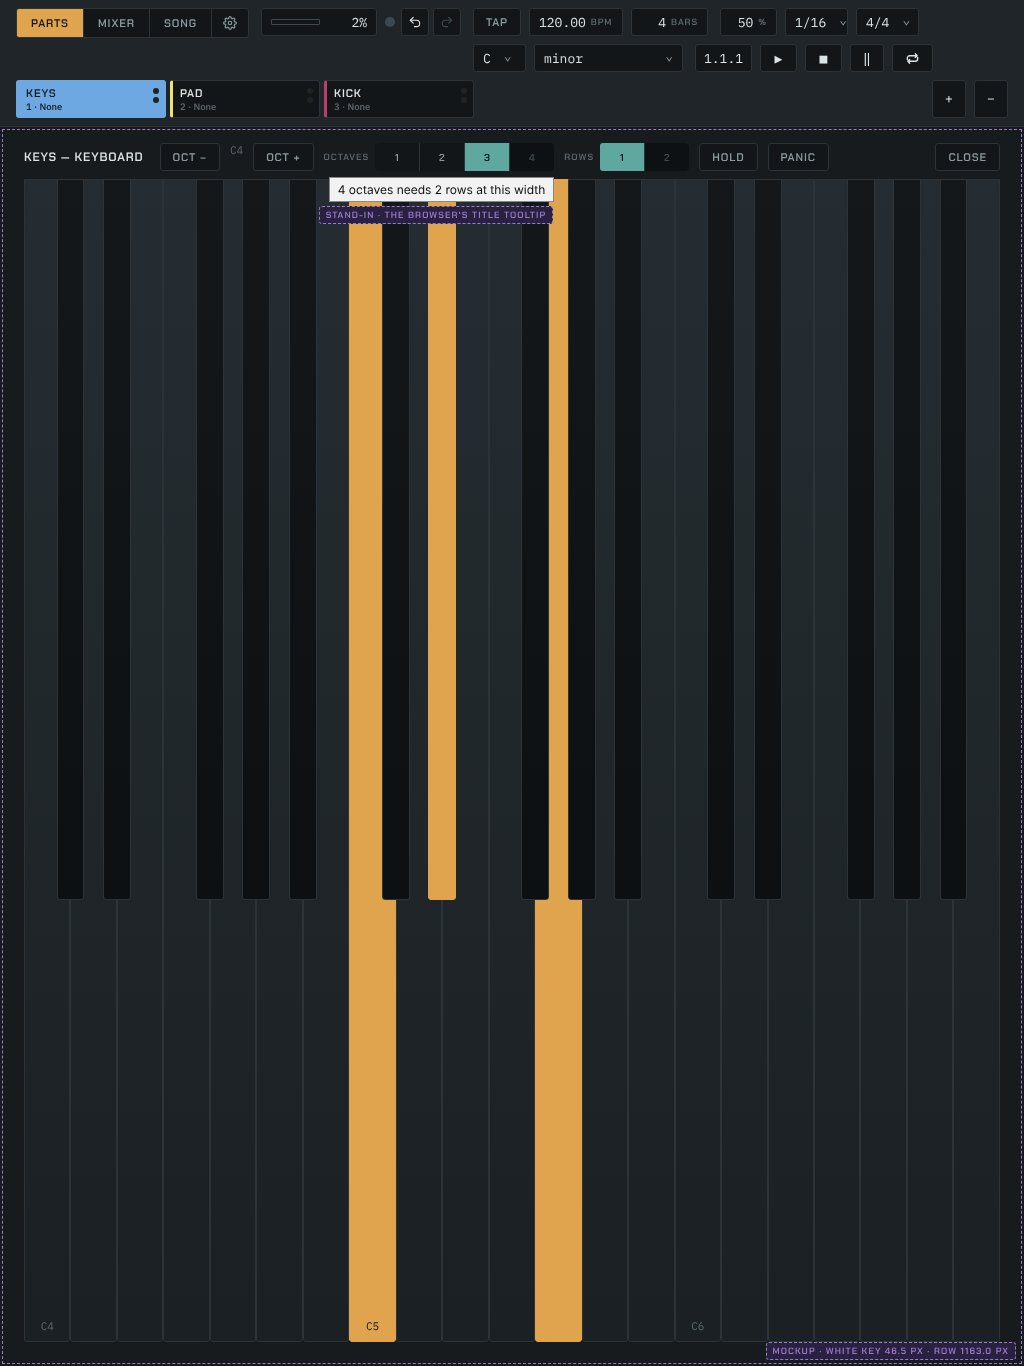
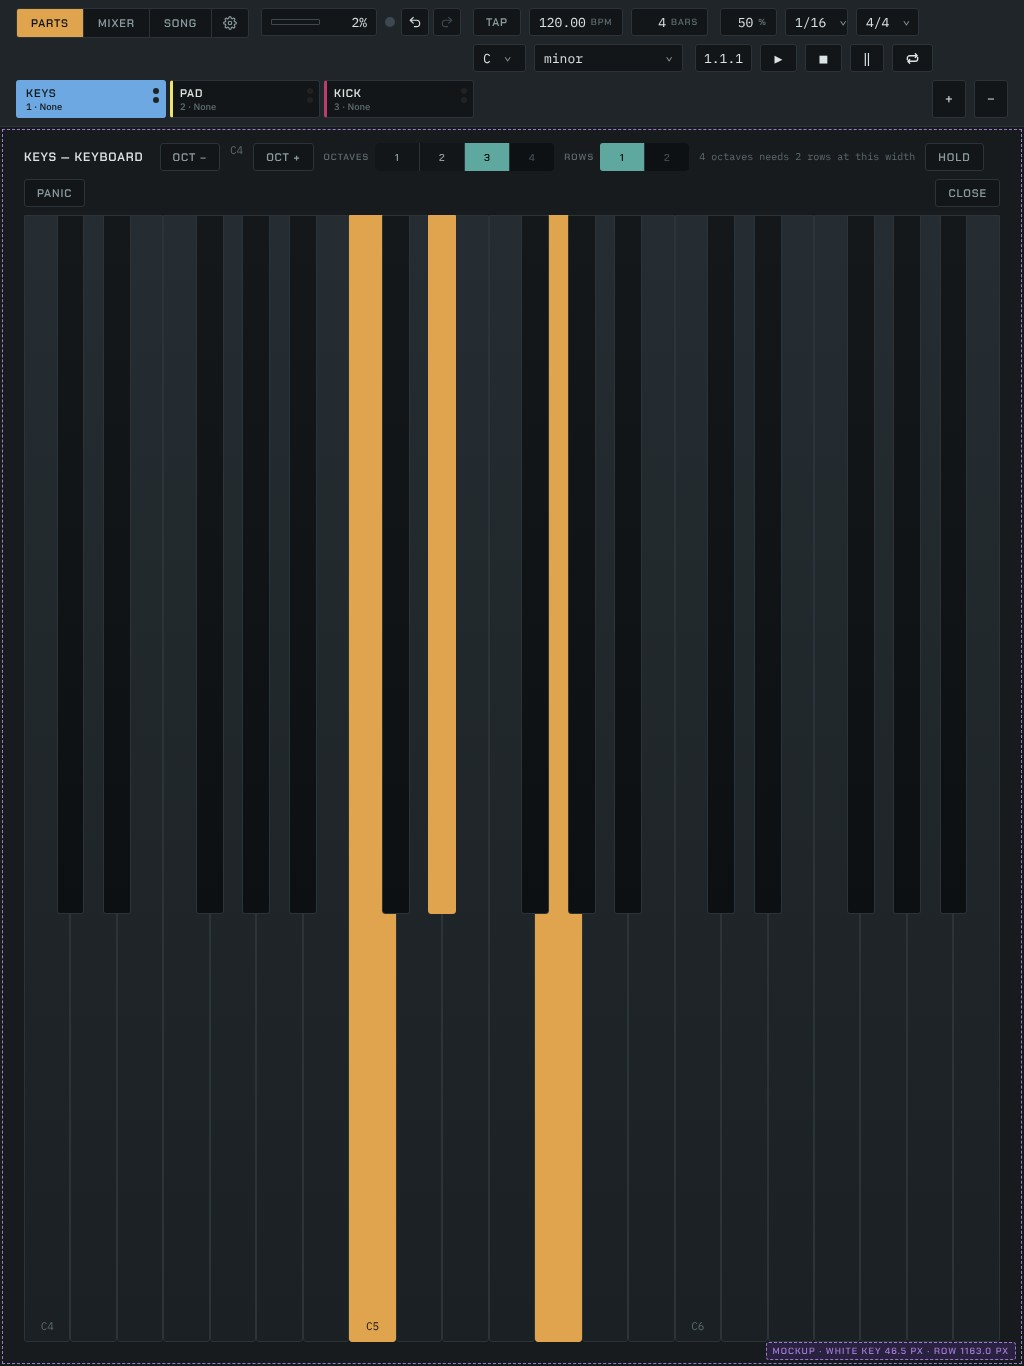
Normalize the keyboard pick and show a disabled option's reason on tap
Codex found that the expanded view drew the default 2 octaves, 1 row
without asking whether the room allowed it, so the phone's Expand opened
on 24.4 px keys under the 44 px floor. A pick is now normalized before it
renders, by a pure allowedPick beside whyNot: the same rows with fewer
octaves first, then one row. The phone opens at 1 octave, 1 row (48.9 px);
the stored preference stays what the user picked.

It also found that a disabled option's reason lived only in its title,
which a touch never shows. The option now stays tappable, dimmed and
aria-disabled; a tap leaves the pick and writes the reason into a hint in
the bar until the next pick, and the title stays for the mouse. The bar
frame shows that hint in place of the tooltip stand-in. The record's
decisions 8 and 10 state both rules and the phone's allowed picks.

Claude-Session: https://claude.ai/code/session_01UDBAUmajCjt158VBny7DzL

diff --git a/docs/design/tablet-keyboard-mockup.html b/docs/design/tablet-keyboard-mockup.html
@@ -610,7 +610,7 @@
       background: var(--modulator);
       color: #111416;
     }
-    .seg button:disabled {
+    .seg button[aria-disabled='true'] {
       color: var(--line-bright);
       background: #0e1113;
       cursor: not-allowed;
@@ -640,23 +640,14 @@
     .key.down .cname {
       color: #111416;
     }
-    /* Mockup only: a stand-in for the browser's own title tooltip. */
-    .tooltip {
-      position: absolute;
-      top: 34px;
-      right: 0;
-      z-index: 3;
-      padding: 4px 8px;
-      background: #f2f2f2;
-      color: #111;
-      border: 1px solid #888;
-      font: 12px system-ui, sans-serif;
-      white-space: nowrap;
+    /* A tap on a disabled option writes its reason here; console.css .roll-overlay-note. */
+    .pick-hint {
+      color: var(--ink-faint);
+      font-family: var(--f-num);
+      font-size: 10px;
     }
-    .tooltip .mock-tag {
-      position: absolute;
-      top: 28px;
-      right: 0;
+    .pick-hint:empty {
+      display: none;
     }
     /* Mockup only: the strike velocity zones on one key, with their values. */
     .zones {
@@ -792,12 +783,16 @@
         its name. The part chips stay live: pick Pad and the keyboard plays Pad.
       </li>
       <li>
-        <b>A disabled option keeps its place</b> and says why in its title. On the portrait
+        <b>A disabled option keeps its place</b>, dimmed and tappable: a tap leaves the pick as
+        it is and writes the reason beside Octaves and Rows until the next pick, and the mouse
+        also has it in the title. On the portrait
         tablet, 4 octaves in one row would make a white key 34.9 px, so it is disabled at 1 row
         ("4 octaves needs 2 rows at this width"); Rows 2 is disabled for 1 and 3 octaves
         ("2 rows takes 2 or 4 octaves"), and with 2 rows chosen, 1 and 3 octaves are disabled
         ("3 octaves can't split into 2 rows"). With 4 octaves chosen in portrait, Rows 1 is
-        disabled by the width.
+        disabled by the width. The view opens on the nearest allowed pick when the stored one
+        does not fit the room, the same rows with fewer octaves first, then one row: the phone's
+        default 2 octaves, 1 row opens at 1 octave, 1 row (342 ÷ 7 = 48.9 px).
       </li>
       <li>
         <b>The strike velocity</b> (touch and pen): 0.6 at a key's top edge, 0.8 at its middle,
@@ -964,10 +959,11 @@
       ['exp-land-4-2', 'Proposed · expanded, landscape, 4 octaves, 2 rows', 'landscape', 'expanded', 4, 2],
       ['exp-port-3-1', 'Proposed · expanded, portrait, 3 octaves, 1 row', 'portrait', 'expanded', 3, 1],
       ['exp-port-4-2', 'Proposed · expanded, portrait, 4 octaves, 2 rows', 'portrait', 'expanded', 4, 2],
-      ['exp-port-title', 'Proposed · the bar: 4 octaves disabled, with its title', 'portrait', 'expanded', 3, 1, 'title'],
+      ['exp-port-title', 'Proposed · the bar: 4 octaves disabled, its reason after a tap', 'portrait', 'expanded', 3, 1, 'title'],
       ['velocity', 'Proposed · strike velocity zones (0.6, 0.8, 1.0)', 'landscape', 'expanded', 2, 1, 'zones'],
     ];
-    const state = { frame: FRAMES[0], part: 'keys', octave: 4, octaves: 2, rows: 1, hold: false, open: false };
+    // `octaves` and `rows` are the stored preference, what the user picked; the view draws allowedPick of it.
+    const state = { frame: FRAMES[0], part: 'keys', octave: 4, octaves: 2, rows: 1, hold: false, open: false, hint: '' };
     const $ = (id) => document.getElementById(id);
     const ICON_EXPAND = '<path d="M7 1.5h3.5V5M10.5 1.5 6.8 5.2M5 10.5H1.5V7M1.5 10.5l3.7-3.7"/>';
     const ICON_GEAR =
@@ -984,6 +980,16 @@
       if (whiteWidth(roomW, octaves, rows) < WHITE_MIN) return `${octaves} octaves needs 2 rows at this width`;
       return '';
     }
+    // The pick a room allows: the pick itself, else the same rows with fewer octaves, else one row with fewer.
+    function allowedPick(roomW, octaves, rows) {
+      if (!whyNot(roomW, octaves, rows)) return { octaves, rows };
+      for (let n = octaves - 1; n >= 1; n--) if (!whyNot(roomW, n, rows)) return { octaves: n, rows };
+      for (let n = octaves - 1; n >= 1; n--) if (!whyNot(roomW, n, 1)) return { octaves: n, rows: 1 };
+      return { octaves: 1, rows: 1 };
+    }
+    const roomOf = (device) => DEVICES[device][0] - 2 * VIEW_PAD_X;
+    // Applied whenever the view opens or its room changes: every render reads the room again.
+    const viewPick = () => allowedPick(roomOf(state.frame[2]), state.octaves, state.rows);
 
     /* ---------- the header ---------- */
     const chips = (phone) =>
@@ -1066,28 +1072,21 @@
 
     /* ---------- the expanded keyboard ---------- */
     function expandedHtml(device, extra) {
-      const [w, h] = DEVICES[device];
-      const roomW = w - 2 * VIEW_PAD_X;
+      const [, h] = DEVICES[device];
+      const roomW = roomOf(device);
+      const view = viewPick();
       const name = PARTS.find((p) => p[0] === state.part)[1];
+      // A disabled option stays tappable: aria-disabled, its reason in data-why for a tap and in title for the mouse.
+      const off = (why) => (why ? ` aria-disabled="true" data-why="${why}" title="${why}"` : '');
       const octSeg = [1, 2, 3, 4]
-        .map((n) => {
-          const why = whyNot(roomW, n, state.rows);
-          return `<button aria-pressed="${n === state.octaves}" data-octaves="${n}"${why ? ` disabled title="${why}"` : ''}>${n}</button>`;
-        })
+        .map((n) => `<button aria-pressed="${n === view.octaves}" data-octaves="${n}"${off(whyNot(roomW, n, view.rows))}>${n}</button>`)
         .join('');
       const rowSeg = [1, 2]
-        .map((n) => {
-          const why = whyNot(roomW, state.octaves, n, true);
-          return `<button aria-pressed="${n === state.rows}" data-rows="${n}"${why ? ` disabled title="${why}"` : ''}>${n}</button>`;
-        })
+        .map((n) => `<button aria-pressed="${n === view.rows}" data-rows="${n}"${off(whyNot(roomW, view.octaves, n, true))}>${n}</button>`)
         .join('');
-      const tip =
-        extra === 'title'
-          ? `<span class="tooltip">${whyNot(roomW, 4, 1)}<span class="mock-tag">Stand-in · the browser's title tooltip</span></span>`
-          : '';
-      const perRow = (12 * state.octaves) / state.rows;
+      const perRow = (12 * view.octaves) / view.rows;
       const rows = [];
-      for (let r = state.rows - 1; r >= 0; r--)
+      for (let r = view.rows - 1; r >= 0; r--)
         rows.push(
           keyRow({
             first: r * perRow,
@@ -1100,15 +1099,16 @@
           }),
         );
       const keyboard = rows.join('');
-      const ww = whiteWidth(roomW, state.octaves, state.rows);
+      const ww = whiteWidth(roomW, view.octaves, view.rows);
       const roomH = h - HEADER_TABLET - 16 - BAR - 8 - 24;
-      const rowH = state.rows === 1 ? roomH : (roomH - 12) / 2;
+      const rowH = view.rows === 1 ? roomH : (roomH - 12) / 2;
       return `<div class="overlay new">
         <div class="overlay-head">
           <span class="overlay-title">${name} — Keyboard</span>
           <button class="btn" data-oct="-1">Oct &minus;</button><span class="status">C${state.octave}</span><button class="btn" data-oct="1">Oct +</button>
-          <span class="pick"><span class="pick-label">Octaves</span><span class="seg">${octSeg}</span>${tip}</span>
+          <span class="pick"><span class="pick-label">Octaves</span><span class="seg">${octSeg}</span></span>
           <span class="pick"><span class="pick-label">Rows</span><span class="seg">${rowSeg}</span></span>
+          <span class="pick-hint" aria-live="polite">${state.hint}</span>
           <button class="btn" data-hold aria-pressed="${state.hold}">Hold</button><button class="btn">Panic</button>
           <span class="spacer"></span><button class="btn" data-close title="Close the keyboard (Esc)">Close</button>
         </div>
@@ -1133,7 +1133,7 @@
         };
       for (const b of c.querySelectorAll('[data-oct]'))
         b.onclick = () => {
-          const max = state.open ? OCTAVE_MAX[state.octaves] : OCTAVE_MAX[2];
+          const max = state.open ? OCTAVE_MAX[viewPick().octaves] : OCTAVE_MAX[2];
           state.octave = Math.min(max, Math.max(0, state.octave + Number(b.dataset.oct)));
           render();
         };
@@ -1148,28 +1148,33 @@
           render();
         };
       for (const b of c.querySelectorAll('[data-close]')) b.onclick = close;
-      for (const b of c.querySelectorAll('[data-octaves]'))
+      for (const b of c.querySelectorAll('[data-octaves], [data-rows]'))
         b.onclick = () => {
-          state.octaves = Number(b.dataset.octaves);
-          state.octave = Math.min(state.octave, OCTAVE_MAX[state.octaves]);
-          render();
-        };
-      for (const b of c.querySelectorAll('[data-rows]'))
-        b.onclick = () => {
-          state.rows = Number(b.dataset.rows);
+          // A disabled option leaves the pick as it is and shows why, until the next pick.
+          if (b.dataset.why) state.hint = b.dataset.why;
+          else {
+            const view = viewPick();
+            state.octaves = Number(b.dataset.octaves ?? view.octaves);
+            state.rows = Number(b.dataset.rows ?? view.rows);
+            state.octave = Math.min(state.octave, OCTAVE_MAX[state.octaves]);
+            state.hint = '';
+          }
           render();
         };
     }
     function close() {
       state.open = false;
+      state.hint = '';
       state.octave = Math.min(state.octave, OCTAVE_MAX[2]);
       render();
     }
     function pick(frame) {
       state.frame = frame;
-      const [, , , mode, octaves, rows] = frame;
+      const [, , , mode, octaves, rows, extra] = frame;
       state.open = mode === 'expanded';
       if (octaves) Object.assign(state, { octaves, rows });
+      // The bar frame shows the reason a tap on the disabled 4 writes.
+      state.hint = extra === 'title' ? whyNot(roomOf(frame[2]), 4, rows) : '';
       render();
     }
 

diff --git a/docs/log/2026-10-17-the-keyboard-on-a-tablet.md b/docs/log/2026-10-17-the-keyboard-on-a-tablet.md
@@ -148,12 +148,20 @@ instrument that plays one finger per note.
    fit the view's width, with no sideways scrolling (`touch-action: none`
    leaves no swipe, and a scroll under a chord is wrong anyway), and the
    view's height. A white key is never narrower than 44 px: an option that
-   would go under it is disabled, with the reason in its title ("4 octaves
-   needs 2 rows at this width"). Rows 2 is offered for 2 and 4 octaves, an
-   even split, the lower octaves on the lower row; for 1 and 3 it is
-   disabled ("2 rows takes 2 or 4 octaves"). Default: 2 octaves, 1 row.
-   The pick is a console preference in `localStorage`, wrapped in
+   would go under it is disabled ("4 octaves needs 2 rows at this width").
+   A disabled option stays tappable, dimmed and `aria-disabled`, and a tap
+   on it leaves the pick as it is and writes the reason in a hint beside
+   Octaves and Rows until the next pick, since a touch never shows a
+   title; the title stays for the mouse. Rows 2 is offered for 2 and 4
+   octaves, an even split, the lower octaves on the lower row; for 1 and 3
+   it is disabled ("2 rows takes 2 or 4 octaves"). Default: 2 octaves,
+   1 row. The pick is a console preference in `localStorage`, wrapped in
    try/catch, never song data (the pattern of windsor#778 decision 7).
+   A pick is normalized before it renders, the default and a restored
+   preference alike, whenever the view opens or its room changes: the
+   view draws the pick if the room allows it, else the same rows with
+   fewer octaves, else one row with fewer octaves. The stored preference
+   stays what the user picked.
 
    The room is the viewport less the view's padding, 2 × 24 px: 1318 px in
    landscape (1366 px) and 976 px in portrait (1024 px). Its height is the
@@ -204,10 +212,14 @@ instrument that plays one finger per note.
     the keys row shows one octave: 7 white keys at 44 px is 308 px, so it
     fits 360 px. At 390 × 844 the keys take the row's 362 px, a white key
     51.7 px, with the buttons under them. The expanded view is the way to
-    play more. The key count becomes a layout value (24 wide, 12 on the
-    phone, `KEY_COUNT` and a phone count in `keyboardConstants.ts`); a
-    QWERTY offset past the shown keys plays with no key lit, as a MIDI note
-    outside the row does today (`midiSink`'s `offset < KEY_COUNT`).
+    play more. Its room at 390 × 844 is 390 − 2 × 24 = 342 px, so it allows
+    1 octave at 1 row and 2 octaves at 2 rows, each 342 ÷ 7 = 48.9 px, and
+    disables everything else (the next widest, 14 whites a row, is
+    24.4 px); the default opens at 1 octave, 1 row. The key count becomes a
+    layout value (24 wide, 12 on the phone, `KEY_COUNT` and a phone count in
+    `keyboardConstants.ts`); a QWERTY offset past the shown keys plays with
+    no key lit, as a MIDI note outside the row does today (`midiSink`'s
+    `offset < KEY_COUNT`).
 11. **Later**, not in this build:
     - pressure and aftertouch from `PointerEvent.pressure`;
     - a pitch ribbon, or a finger's slide becoming a bend;
